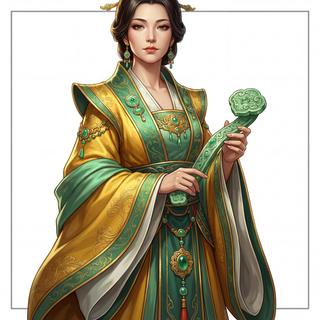
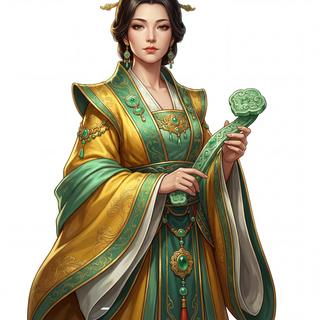
fix(game): remove frames from three partner portraits
caiwenji and zhurong had a thick gray frame (zhurong also a cream
background); bulianshi had a thin gray outline. Crop inside the frame,
whiten only edge-connected background pixels (character pixels untouched),
and erase the outline, so all portraits share the same plain white style.

Changed region(s): [[0.5625, 0.0312, 0.9688, 0.9688], [0.0312, 0.0312, 0.3438, 0.9688], [0.3125, 0.9375, 0.3438, 0.9688]]

diff --git a/src/lib/assets.ts b/src/lib/assets.ts
@@ -1,5 +1,5 @@
 export const RAW_BASE = 'https://raw.githubusercontent.com/cditlimei/jiaye-tianxia/main';
-const OPTIMIZED_ASSET_VERSION = '20261003b';
+const OPTIMIZED_ASSET_VERSION = '20261003c';
 
 interface OptimizedImageConfig {
   prefix: string;
